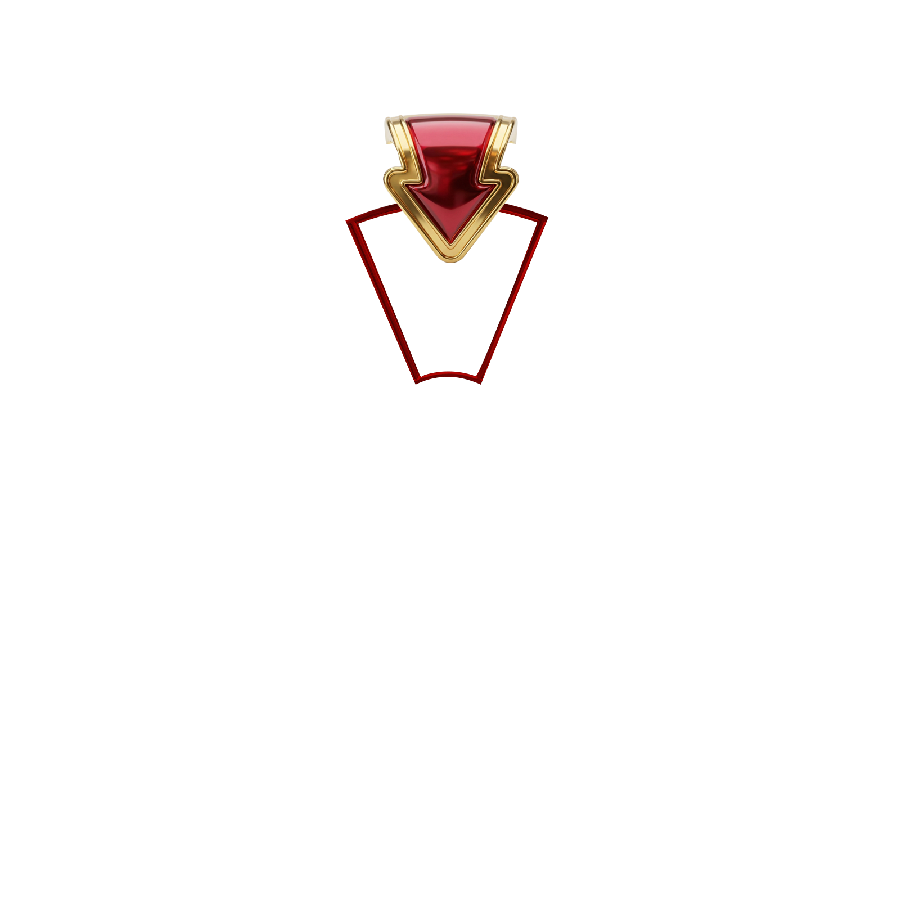
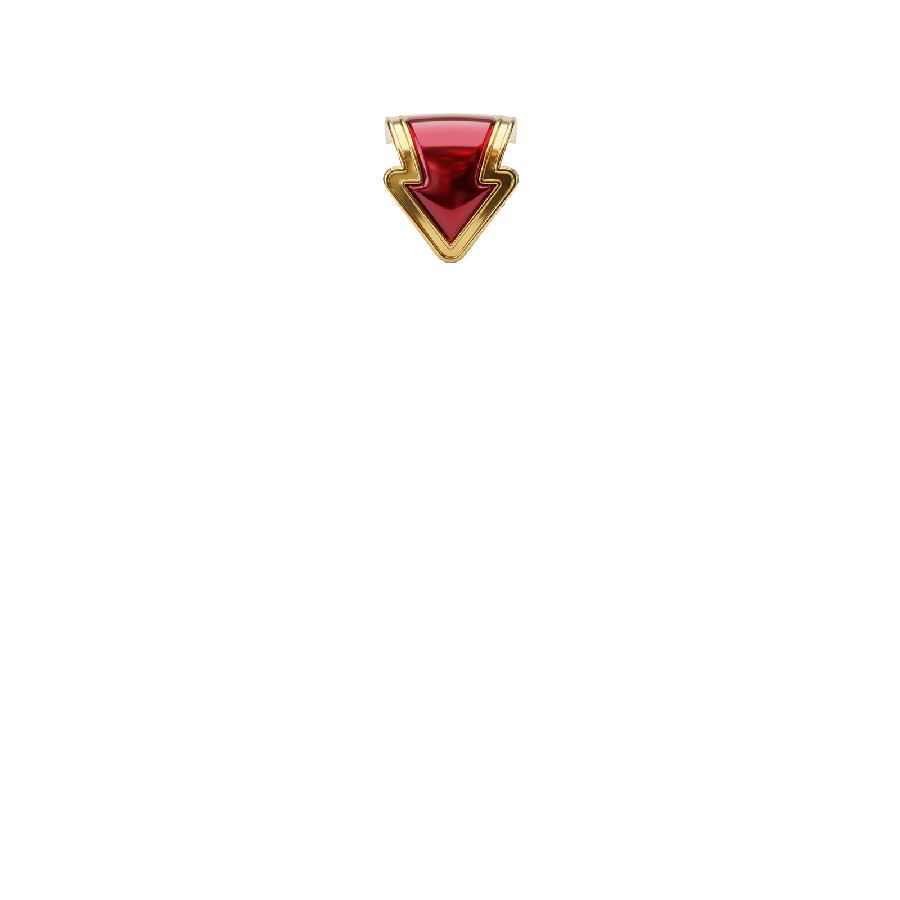
[Update] 輪盤遊戲3頁

Changed region(s): [[0.4044, 0.28, 0.5911, 0.4356], [0.3733, 0.2178, 0.4667, 0.28], [0.56, 0.2178, 0.6222, 0.28]]

diff --git a/src/games/WheelScene3.ts b/src/games/WheelScene3.ts
@@ -13,6 +13,7 @@ export type OnSpinCompleteCallback = (prize: PrizeItem, index: number) => void;
 export default class WheelScene extends Phaser.Scene {
     private config!: WheelConfig;
 
+    private gameRoot!        : Phaser.GameObjects.Container;
     private wheel!           : Phaser.GameObjects.Container;
     private pointer!         : Phaser.GameObjects.Image;
     private spinning = false;
@@ -28,6 +29,8 @@ export default class WheelScene extends Phaser.Scene {
     // 音效
     private tickSound?: Phaser.Sound.BaseSound;
     private endSound? : Phaser.Sound.BaseSound;
+
+    private prizeOverlay?: Phaser.GameObjects.Container;
 
     private readonly wheelRadius = 220;
     private readonly centerX = 300;
@@ -70,12 +73,13 @@ export default class WheelScene extends Phaser.Scene {
             this.load.audio('endSound', sounds.end);
         }
 
-        const { backgroundImg01, backgroundImg02, pointer, inner } = this.config.images;
+        const { backgroundImg01, backgroundImg02, pointer, inner, treasure } = this.config.images;
 
         this.load.image('bg01', backgroundImg01);
         this.load.image('bg02', backgroundImg02);
         this.load.image('pointer', pointer);
         this.load.image('inner', inner);
+        this.load.image('treasure', treasure);
     }
 
     create() {
@@ -88,6 +92,8 @@ export default class WheelScene extends Phaser.Scene {
         if (this.cache.audio.exists('endSound')) {
             this.endSound = this.sound.add('endSound', { volume: 0.6 });
         }
+
+        this.gameRoot = this.add.container(0, 0);
 
         // 🎡 頁面載入時就顯示完整輪盤
         this.createBackground();
@@ -121,26 +127,26 @@ export default class WheelScene extends Phaser.Scene {
     }
 
     private highlightSector(index: number) {
-        // ✅ 先清掉舊的
         this.clearHighlight();
 
         const prizes = this.config.prizes;
         const count = prizes.length;
         const segmentAngle = 360 / count;
 
-        // ⭐ 關鍵：定義高亮區範圍
-        const outerRadius = this.wheelRadius * 0.68; // 不要到最外
-        const innerRadius = this.wheelRadius * 0.2; // 中間挖空
+        const outerRadius = this.wheelRadius * 0.68;
+        const innerRadius = this.wheelRadius * 0.2;
 
-        const startDeg = -90 + index * segmentAngle;
-        const endDeg = startDeg + segmentAngle;
+        // 🔧 讓扇區「中心」對齊 -90°（12 點鐘方向）
+        // 所以起始角度要往回退半個扇區
+        const startDeg = -90 - segmentAngle / 2;
+        const endDeg = -90 + segmentAngle / 2;
+
+        console.log('🎨 高亮扇區範圍:', startDeg.toFixed(2), '°', '~', endDeg.toFixed(2), '°');
 
         const g = this.add.graphics();
         g.fillStyle(0xffff99, 0.55);
-
         g.beginPath();
 
-        // 外弧（順時針）
         g.arc(
             0,
             0,
@@ -150,7 +156,6 @@ export default class WheelScene extends Phaser.Scene {
             false,
         );
 
-        // 內弧（逆時針，挖空）
         g.arc(
             0,
             0,
@@ -163,10 +168,12 @@ export default class WheelScene extends Phaser.Scene {
         g.closePath();
         g.fillPath();
 
-        this.wheel.add(g);
+        // 設定位置（跟 wheel 同一個位置）
+        g.setPosition(this.wheel.x, this.wheel.y);
+        this.add.existing(g);
+
         this.highlightGraphic = g;
 
-        // ✨ 呼吸閃爍
         this.tweens.add({
             targets : g,
             alpha   : { from: 0.25, to: 0.6 },
@@ -189,6 +196,76 @@ export default class WheelScene extends Phaser.Scene {
             duration: 50,
             yoyo    : true,
             ease    : 'Quad.easeOut',
+        });
+    }
+
+    private showPrizeOverlay(label: string) {
+        // 🔻 輪盤淡出
+        this.tweens.add({
+            targets   : this.gameRoot,
+            alpha     : 0,
+            duration  : 300,
+            ease      : 'Power2',
+            onComplete: () => {
+                this.gameRoot.setVisible(false);
+            },
+        });
+
+        const { centerX, centerY } = this.cameras.main;
+
+        const overlay = this.add.container(0, 0);
+
+        const mask = this.add.rectangle(
+            centerX,
+            centerY,
+            this.scale.width,
+            this.scale.height,
+            0x000000,
+            0.8,
+        );
+
+        const chest = this.add.image(
+            this.cameras.main.centerX,
+            this.cameras.main.centerY,
+            'treasure',
+        )
+            .setScale(0.6)
+            .setDepth(100);
+
+        const text = this.add.text(
+            this.cameras.main.centerX,
+            this.cameras.main.centerY - chest.displayHeight / 2 - 40,
+            `恭喜中獎\n${ label }`,
+            {
+                fontSize       : '36px',
+                color          : '#FFD54F',
+                fontStyle      : 'bold',
+                align          : 'center',
+                stroke         : '#000',
+                strokeThickness: 6,
+            },
+        )
+            .setOrigin(0.5)
+            .setDepth(100);
+
+        overlay.add([mask, chest, text]);
+        this.prizeOverlay = overlay;
+
+        this.tweens.add({
+            targets : chest,
+            alpha   : 1,
+            scale   : { from: 0.2, to: 0.4 },
+            duration: 600,
+            ease    : 'Back.easeOut',
+        });
+
+        this.tweens.add({
+            targets : text,
+            alpha   : 1,
+            y       : '-=10',
+            duration: 500,
+            delay   : 200,
+            ease    : 'Power2',
         });
     }
 
@@ -233,14 +310,28 @@ export default class WheelScene extends Phaser.Scene {
         }
 
         const segmentAngle = 360 / count;
+        // 🎯 12 點鐘方向
+        const POINTER_ANGLE = -90;
 
         // ✅ 計算停止角度（與原版 spinToPrize 相同邏輯）
-        const stopAngle = 360 - (targetIndex * segmentAngle + segmentAngle / 2);
+        // const stopAngle = 360 - (targetIndex * segmentAngle + segmentAngle / 2);
+
+        // 🎯 中獎扇形的中心角
+        const prizeCenterAngle = targetIndex * segmentAngle + segmentAngle / 2;
+
+        // 🎯 對齊 12 點鐘所需的基準停止角
+        const baseStopAngle = POINTER_ANGLE - prizeCenterAngle;
 
         // 多轉幾圈
         const rounds = Phaser.Math.Between(3, 5);
-        const randomOffset = Phaser.Math.Between(-5, 5);
-        const finalAngle = 360 * rounds + stopAngle + randomOffset;
+        // const randomOffset = Phaser.Math.Between(-5, 5);
+        // 🎲 自然模式才加隨機偏移
+        const randomOffset = this.config.alignMode === 'natural'
+            ? Phaser.Math.Between(-5, 5)
+            : 0;
+
+        // const finalAngle = 360 * rounds + stopAngle + randomOffset;
+        const finalAngle = 360 * rounds + baseStopAngle + randomOffset;
 
         const spinDuration = 4200;
         const endSoundDelay = spinDuration - 3600;
@@ -281,11 +372,16 @@ export default class WheelScene extends Phaser.Scene {
 
                 console.log(`🎉 停在：${ prize.label }`);
 
-                // ⭐ 中獎扇形呼吸發光
+                // ⭐ 1. 高亮中獎扇形
                 this.highlightSector(targetIndex);
 
-                // ✅ 通知 Vue 中獎結果
-                this.onSpinComplete?.(prize, targetIndex);
+                // ⏱ 2. 停 1.2 秒後顯示中獎畫面
+                this.time.delayedCall(1200, () => {
+                    this.showPrizeOverlay(prize.label);
+
+                    // 📣 3. 再通知 Vue（此時畫面已出現）
+                    this.onSpinComplete?.(prize, targetIndex);
+                });
             },
         });
     }
@@ -296,6 +392,8 @@ export default class WheelScene extends Phaser.Scene {
 
         this.bg01 = this.add.image(cx, cy, 'bg01');
         this.bg02 = this.add.image(cx, cy, 'bg02');
+
+        this.gameRoot.add([this.bg01, this.bg02]);
 
         const targetSize = 500; // game width / height
         const texture = this.textures.get('bg01').getSourceImage() as HTMLImageElement;
@@ -326,6 +424,8 @@ export default class WheelScene extends Phaser.Scene {
 
         // this.wheel = this.add.container(this.centerX, this.centerY);
         this.wheel = this.add.container(cx, cy);
+
+        this.gameRoot.add(this.wheel);
 
         const radius = 250;
         const segmentAngle = 360 / count;
@@ -395,5 +495,7 @@ export default class WheelScene extends Phaser.Scene {
             .setOrigin(0.5, 0)   // 尖端在圖片「上方中央」
             .setScale(0.6)       // 視圖片大小調整
             .setDepth(20);       // 一定要比輪盤高
+
+        this.gameRoot.add(this.pointer);
     }
 }

diff --git a/src/pages/game/wheelGame3.vue b/src/pages/game/wheelGame3.vue
@@ -3,7 +3,7 @@
         "name": "WheelGame3",
         "meta": {
             "title": "Phaser 輪盤遊戲3",
-            "i18n": "page.wheelGame2.title",
+            "i18n": "page.wheelGame3.title",
             "transition": "default",
             "authorize": false
         }
@@ -67,11 +67,13 @@
             backgroundImg01: `${ baseUrl.value }images/game/wheel/Backgrund1.png`,
             backgroundImg02: `${ baseUrl.value }images/game/wheel/Backgrund2.png`,
             pointer        : `${ baseUrl.value }images/game/wheel/pointer.png`,
+            treasure       : `${ baseUrl.value }images/game/wheel/treasure_chest.png`,
         },
         sounds: {
             tick: `${ baseUrl.value }audios/run.mp3`,
             end : `${ baseUrl.value }audios/stop.mp3`,
         },
+        alignMode: 'snap12',
     }));
 
     // function
@@ -95,12 +97,12 @@
     onMounted(() => {
         if (gameContainerRef.value) {
             const gameConfig: Phaser.Types.Core.GameConfig = {
-                type           : AUTO,
-                width          : 500,
-                height         : 500,
-                parent         : gameContainerRef.value,
-                backgroundColor: '#ffffff',
-                scene          : [new WheelScene(wheelConfig.value)],
+                type       : AUTO,
+                width      : 500,
+                height     : 500,
+                parent     : gameContainerRef.value,
+                transparent: true,
+                scene      : [new WheelScene(wheelConfig.value)],
             };
 
             gameInstance.value = new Phaser.Game(gameConfig);

diff --git a/typed-router.d.ts b/typed-router.d.ts
@@ -100,6 +100,20 @@ declare module 'vue-router/auto-routes' {
       Record<never, never>,
       | never
     >,
+    'WheelGame4': RouteRecordInfo<
+      'WheelGame4',
+      '/game/wheelGame4',
+      Record<never, never>,
+      Record<never, never>,
+      | never
+    >,
+    'WheelGame5': RouteRecordInfo<
+      'WheelGame5',
+      '/game/wheelGame5',
+      Record<never, never>,
+      Record<never, never>,
+      | never
+    >,
     'Suspense': RouteRecordInfo<
       'Suspense',
       '/suspense',
@@ -197,6 +211,18 @@ declare module 'vue-router/auto-routes' {
     'src/pages/game/wheelGame3.vue': {
       routes:
         | 'WheelGame3'
+      views:
+        | never
+    }
+    'src/pages/game/wheelGame4.vue': {
+      routes:
+        | 'WheelGame4'
+      views:
+        | never
+    }
+    'src/pages/game/wheelGame5.vue': {
+      routes:
+        | 'WheelGame5'
       views:
         | never
     }

diff --git a/src/models/IWheelGameModel.ts b/src/models/IWheelGameModel.ts
@@ -7,7 +7,10 @@ export interface WheelImages {
     inner          : string; // 中間可旋轉圓盤
     backgroundImg01: string; // 外圈背景01
     backgroundImg02: string; // 外圈背景02
-    pointer?       : string;
+    pointer?       : string; // 指針圖片
+    pointerFrame1? : string;
+    pointerFrame2? : string;
+    treasure       : string;  // 中獎寶箱
 }
 
 export interface WheelSounds {
@@ -15,8 +18,11 @@ export interface WheelSounds {
     end? : string;
 }
 
+export type AlignMode = 'natural' | 'snap12';
+
 export interface WheelConfig {
-    prizes : WheelPrize[];
-    images : WheelImages;
-    sounds?: WheelSounds;
+    prizes    : WheelPrize[];
+    images    : WheelImages;
+    sounds?   : WheelSounds;
+    alignMode?: AlignMode; // ⭐ 新增
 }

diff --git a/src/layouts/default.vue b/src/layouts/default.vue
@@ -66,6 +66,16 @@
                                 class="fg:#ffffff:hover">
                         {{ t('page.wheelGame3.title') }}
                     </RouterLink>
+
+                    <RouterLink :to="{ name: 'WheelGame4' }"
+                                class="fg:#ffffff:hover">
+                        {{ t('page.wheelGame4.title') }}
+                    </RouterLink>
+
+                    <RouterLink :to="{ name: 'WheelGame5' }"
+                                class="fg:#ffffff:hover">
+                        {{ t('page.wheelGame5.title') }}
+                    </RouterLink>
                 </nav>
             </div>
         </header>
